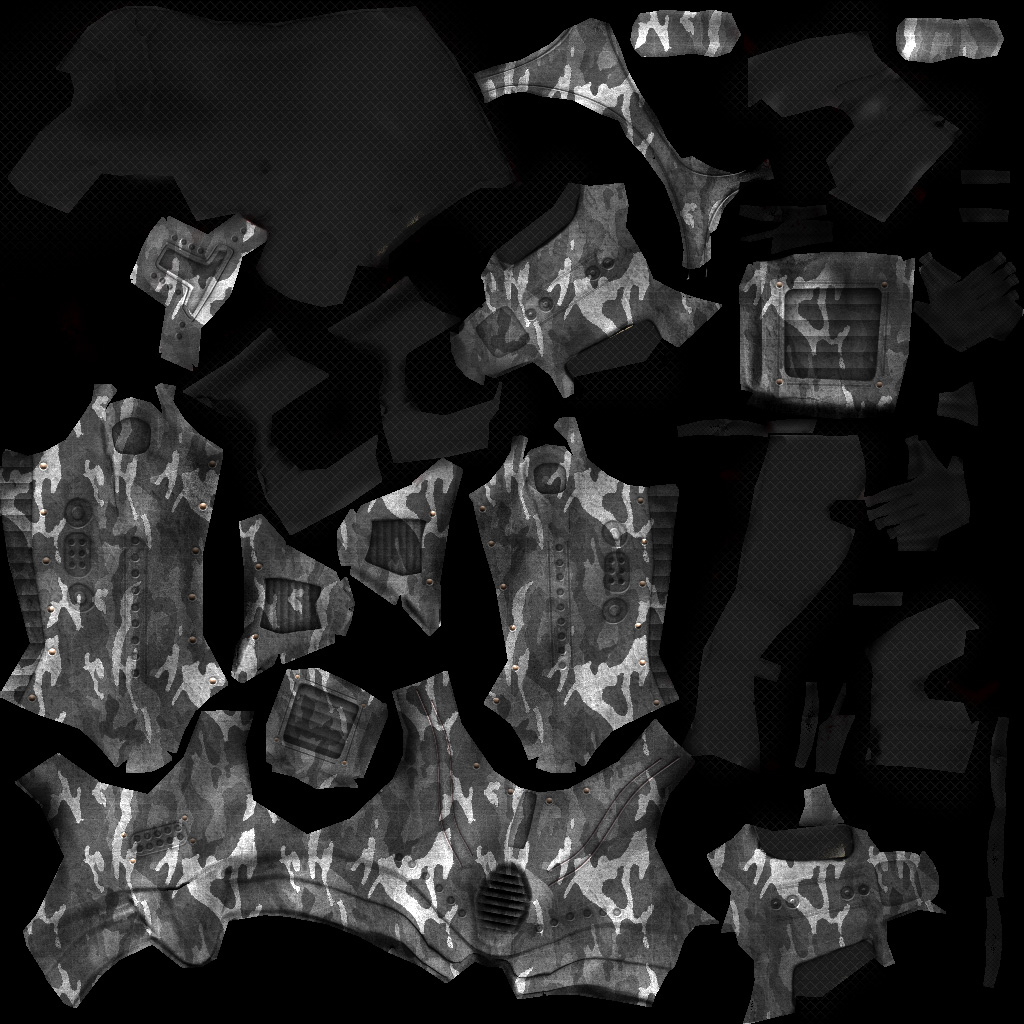
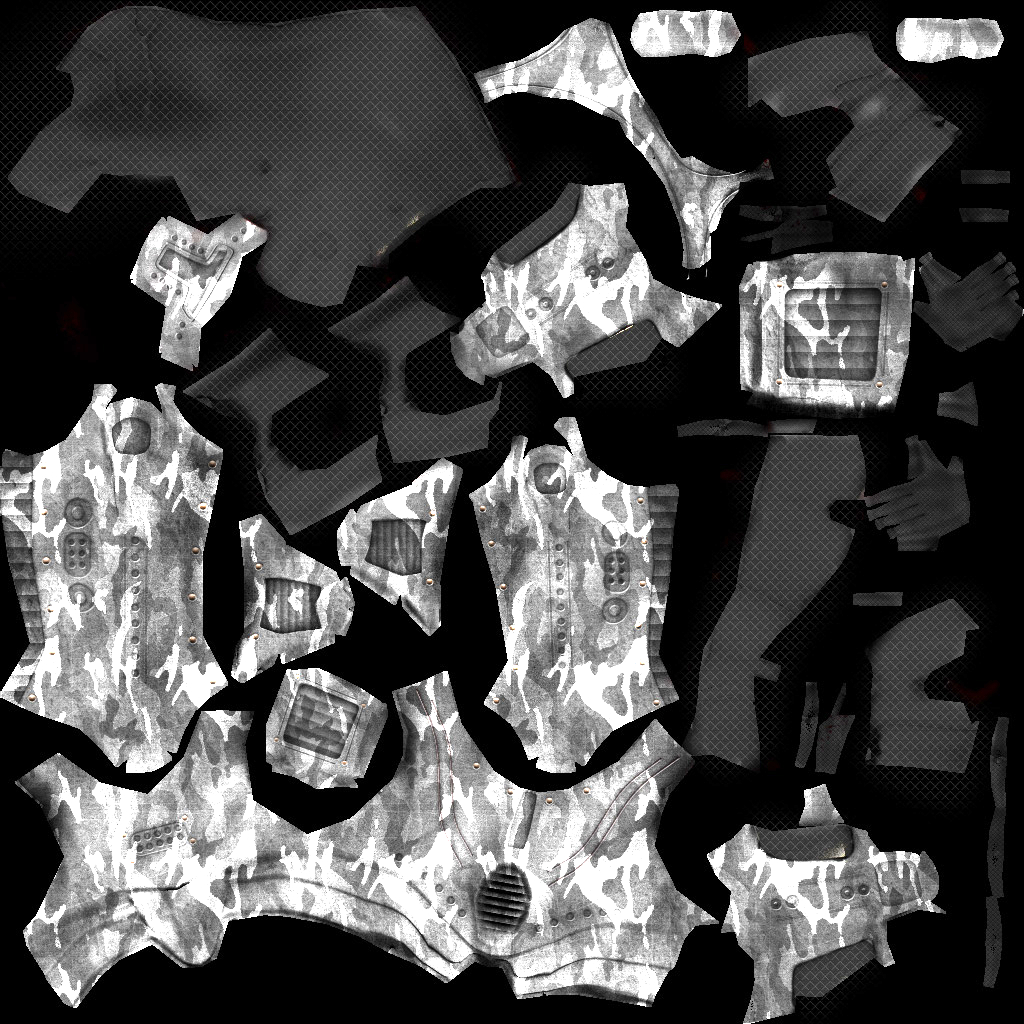
brighten player model skin, bomber ball visual improvements
Former-commit-id: 98c357795fef26a8a18e2057984c3a4b230a422e
Former-commit-id: ebed8acdb8037d3d5a0f8300be6862bff5660029

diff --git a/src/game/bomber.cpp b/src/game/bomber.cpp
@@ -47,7 +47,7 @@ namespace bomber
             vecfromyawpitch(d->yaw, d->pitch, 1, 0, inertia);
             bool guided = false;
             if(bomberpowertime && lastmillis-d->actiontime[AC_AFFINITY] >= bomberpowertime) guided = true;
-            inertia.normalize().mul(bomberspeed).add(d->vel).add(d->falling);
+            inertia.normalize().mul(bomberspeed).add(vec(d->vel).add(d->falling).mul(bomberinertia));
             client::addmsg(N_DROPAFFIN, "ri8", d->clientnum, guided ? findtarget(d) : -1, int(d->o.x*DMF), int(d->o.y*DMF), int(d->o.z*DMF), int(inertia.x*DMF), int(inertia.y*DMF), int(inertia.z*DMF));
             d->action[AC_AFFINITY] = false;
             d->actiontime[AC_AFFINITY] = 0;
@@ -70,23 +70,21 @@ namespace bomber
             bomberstate::flag &f = st.flags[i];
             if(!entities::ents.inrange(f.ent) || hasflags.find(i) >= 0 || !f.enabled) continue;
             vec dir = vec(f.pos()).sub(camera1->o);
-            int colour = isbomberaffinity(f) ? 0x888888 : teamtype[f.team].colour;
+            int colour = isbomberaffinity(f) ? 0xFFFFFF : teamtype[f.team].colour;
             float r = (colour>>16)/255.f, g = ((colour>>8)&0xFF)/255.f, b = (colour&0xFF)/255.f, fade = blend*hud::radaraffinityblend, size = hud::radaraffinitysize;
             if(isbomberaffinity(f))
             {
-                int millis = lastmillis-f.interptime;
-                if(millis < 1000) size *= 1.f+(1-clamp(float(millis)/1000.f, 0.f, 1.f));
-                if(f.owner) size *= 0.75f;
-                else if(!f.droptime) fade *= 0.75f;
+                size *= 1.25f;
+                if(!f.owner && !f.droptime)
+                {
+                    int millis = lastmillis-f.interptime;
+                    if(millis < 1000) size *= 1.f+(1-clamp(float(millis)/1000.f, 0.f, 1.f));
+                }
             }
             else
             {
                 float dist = dir.magnitude(), diff = dist <= hud::radarrange() ? clamp(1.f-(dist/hud::radarrange()), 0.f, 1.f) : 0.f;
-                if(isbombertarg(f, game::focus->team) && !hasflags.empty())
-                {
-                    fade += (1.f-fade)*diff;
-                    size *= 2;
-                }
+                if(isbombertarg(f, game::focus->team) && !hasflags.empty()) fade += (1.f-fade)*diff;
             }
             dir.rotate_around_z(-camera1->yaw*RAD).normalize();
             hud::drawblip(isbomberaffinity(f) ? hud::bombtex : (isbombertarg(f, game::focus->team) ? hud::arrowtex : hud::flagtex), 3, w, h, size, fade, dir, r, g, b);
@@ -130,7 +128,7 @@ namespace bomber
             if(y-sy-s < m) break;
             bomberstate::flag &f = st.flags[i];
             int millis = lastmillis-f.interptime, pos[2] = { x, y-sy };
-            float skew = hud::inventoryskew, fade = blend*hud::inventoryblend, r = 0.5f, g = 0.5f, b = 0.5f, rescale = 1.f;
+            float skew = hud::inventoryskew, fade = blend*hud::inventoryblend, r = 1.f, g = 1.f, b = 1.f, rescale = 1.f;
             if(f.owner || f.droptime)
             {
                 if(f.owner == game::focus)
@@ -245,19 +243,13 @@ namespace bomber
                 if(isbomberaffinity(f))
                 {
                     if(!f.owner) above.z += enttype[AFFINITY].radius/(f.droptime ? 16 : 4);
-                    int colour = f.lastowner && f.lastowner->team ? teamtype[f.lastowner->team].colour : 0xFFFFFF;
                     entitylight *light = &entities::ents[f.ent]->light;
-                    if(light->millis != lastmillis)
-                    {
-                        light->material.x = (colour>>16)/255.f;
-                        light->material.y = ((colour>>8)&0xFF)/255.f;
-                        light->material.z = (colour&0xFF)/255.f;
-                    }
+                    if(light->millis != lastmillis) light->material = vec(1, 1, 1);
                     float yaw = !f.owner && f.proj ? f.proj->yaw : (lastmillis/10)%360, pitch = !f.owner && f.proj ? f.proj->pitch : 0, roll = !f.owner && f.proj ? f.proj->roll : 0;
                     rendermodel(light, "ball", ANIM_MAPMODEL|ANIM_LOOP, above, yaw, pitch, roll, MDL_SHADOW|MDL_CULL_VFC|MDL_CULL_OCCLUDED, NULL, NULL, 0, 0, trans);
                     int interval = lastmillis%1000;
                     float fluc = interval >= 500 ? (1500-interval)/1000.f : (500+interval)/1000.f;
-                    part_create(PART_HINT_SOFT, 1, above, colour, enttype[AFFINITY].radius/4+(2*fluc), fluc*trans);
+                    part_create(PART_HINT_SOFT, 1, above, 0xFFFFFF, enttype[AFFINITY].radius/4+(2*fluc), fluc*trans);
                 }
                 else
                 {
@@ -287,7 +279,7 @@ namespace bomber
                 int millis = lastmillis-f.interptime;
                 if(millis <= 1000) trans = float(millis)/1000.f;
             }
-            int colour = isbomberaffinity(f) ? (f.lastowner && f.lastowner->team ? teamtype[f.lastowner->team].colour : 0xAAAAAA) : teamtype[f.team].colour;
+            int colour = isbomberaffinity(f) ? 0xFFFFFF : teamtype[f.team].colour;
             adddynlight(f.pos(true), enttype[AFFINITY].radius*2*trans, vec((colour>>16), ((colour>>8)&0xFF), (colour&0xFF)).div(255.f), 0, 0, DL_KEEP);
         }
     }
@@ -301,7 +293,7 @@ namespace bomber
             if(st.flags.inrange(index)) \
             { \
                 st.flags[index].ent = a; \
-                int colour = st.flags[index].team == TEAM_NEUTRAL ? 0x888888 : teamtype[st.flags[index].team].colour; \
+                int colour = st.flags[index].team == TEAM_NEUTRAL ? 0xFFFFFF : teamtype[st.flags[index].team].colour; \
                 entities::ents[a]->light.material = st.flags[index].light.material = vec(colour>>16, (colour>>8)&0xFF, colour&0xFF).div(255.f); \
             } \
             else continue; \

diff --git a/src/game/weapons.h b/src/game/weapons.h
@@ -183,7 +183,7 @@ WEAPON(sword,
 );
 WEAPON(shotgun,
     2,      8,      1,      2,      375,    750,    750,    20,     14,     1500,   500,    0,      0,      750,    250,
-    0,      0,      0,      0,      200,    200,    0,      0,      10,     10,     15,     15,
+    0,      0,      0,      0,      200,    200,    0,      0,      10,     10,     20,     15,
     2,      1,      10,     10,     -1,             WALT(SHOTGUN),  5,      5,      250,    2500,   0,      0,
     BOUNCE_GEOM|IMPACT_PLAYER|IMPACT_SHOTS|COLLIDE_TRACE|COLLIDE_OWNER,
     IMPACT_GEOM|IMPACT_PLAYER|IMPACT_SHOTS|COLLIDE_TRACE|COLLIDE_OWNER|COLLIDE_CONT,
@@ -234,7 +234,7 @@ WEAPON(plasma,
     1,      1,      1,      1,      1,      1,      1,      1,      0,      0
 );
 WEAPON(rifle,
-    5,      5,      1,      1,      750,    750,    1500,   40,     100,    5000,   25000,  0,      0,      5000,   5000,
+    5,      5,      1,      1,      750,    750,    1500,   50,     100,    5000,   25000,  0,      0,      5000,   5000,
     0,      0,      0,      0,      200,    200,    28,     0,      1,      1,      1,      0,
     0,      0,      40,     40,     -1,             -1,             5,      5,      500,    500,    0,      0,
     IMPACT_GEOM|IMPACT_PLAYER|IMPACT_SHOTS|COLLIDE_OWNER|COLLIDE_TRACE,
@@ -242,8 +242,8 @@ WEAPON(rifle,
     2,      2,      0,      0,      0,      0,      0,      0,      0,      0,      1,      1,      1,      0,      0,
     2,      0,      0,      0,
     0,      0,      0,      0,      0.5f,   0.5f,   0,      0,      1,      0,      2,      2,      0,      0,      1,      1,
-    5,      0,      100,    200,    0.1f,   0.25f,  600,    0,      2,      2,      256,    512,    1,      1.5f,
-    2,      12,     10,     10,     1,      1,      1,      1,      0.6f,   0.6f,   0.3f,   0.3f,
+    5,      0,      200,    200,    0.1f,   0.25f,  600,    0,      2,      2,      256,    512,    1,      1.5f,
+    2,      12,     10,     10,     1,      1,      1,      1,      0.8f,   0.6f,   0.4f,   0.6f,
     1,      1,      1,      1,      0.25f,  0.25f,  1,      1,      0,      0
 );
 WEAPON(grenade,
@@ -254,7 +254,7 @@ WEAPON(grenade,
     IMPACT_GEOM|BOUNCE_PLAYER|IMPACT_SHOTS|COLLIDE_OWNER|COLLIDE_STICK|COLLIDE_SHOTS,
     2,      2,      2,      2,      0,      0,      0,      0,      1,      1,      0,      0,      0,      0,      0,
     3,      0,      0,      0,
-    0,      0,      0,      0,      0.5f,   0.5f,   0,      0,      1,      1,      2,      2,      64,     64,     1,      1,
+    0,      0,      0,      0,      0.5f,   0.5f,   0,      0,      1,      1,      2,      2,      65,     65,     1,      1,
     5,      5,      500,    500,    0.1f,   0.1f,   400,    400,    2,      2,      0,      0,      2,      2,
     2,      0,      10,     10,     1,      1,      1,      1,      0.6f,   0.6f,   0.3f,   0.3f,
     1,      1,      1,      1,      1,      1,      0,      0,      0,      0

diff --git a/src/game/projs.cpp b/src/game/projs.cpp
@@ -565,7 +565,7 @@ namespace projs
                 proj.reflectivity = 0.f;
                 proj.relativity = 1.f;
                 proj.waterfric = 1.75f;
-                proj.weight = 100.f;
+                proj.weight = 65.f;
                 proj.projcollide = BOUNCE_GEOM;
                 proj.escaped = true;
                 proj.fadetime = 500;
@@ -950,9 +950,9 @@ namespace projs
             case PRJ_AFFINITY:
             {
                 bool moving = proj.movement > 0.f;
-                if(moving && lastmillis-proj.lasteffect >= 50)
+                if(moving && lastmillis-proj.lasteffect >= 25)
                 {
-                    part_create(PART_SMOKE, 150, proj.o, 0x888888, max(proj.xradius, proj.yradius)*1.5f, clamp(1.f-proj.lifespan, 0.1f, 1.f)*0.5f, -1);
+                    part_create(PART_SMOKE, 150, proj.o, 0xFFFFFF, max(proj.xradius, proj.yradius)*1.5f, 0.75f, -10);
                     proj.lasteffect = lastmillis - (lastmillis%100);
                 }
             }

diff --git a/src/game/vars.h b/src/game/vars.h
@@ -107,8 +107,9 @@ GVAR(0, bomberresetdelay, 0, 15000, INT_MAX-1);
 GVAR(0, bomberholdtime, 0, 15000, INT_MAX-1);
 GVAR(0, bomberpowertime, 0, 1000, INT_MAX-1);
 GFVAR(0, bomberspeed, 0, 250, 10000);
-GFVAR(0, bomberminvel, 0, 5, 10000);
-GFVAR(0, bomberdelta, 0, 5, 10000);
+GFVAR(0, bomberminvel, 0, 10, 10000);
+GFVAR(0, bomberdelta, 0, 20, 10000);
+GFVAR(0, bomberinertia, 0, 0.25f, 10000);
 
 GVAR(0, skillmin, 1, 65, 101);
 GVAR(0, skillmax, 1, 85, 101);

diff --git a/src/game/game.h b/src/game/game.h
@@ -466,8 +466,8 @@ struct teamtypes
 #ifdef GAMESERVER
 teamtypes teamtype[] = {
     {
-        TEAM_NEUTRAL,   0x44FF44,           "neutral",
-        "team",             "\fg",      "green"
+        TEAM_NEUTRAL,   0xAAAAAA,           "neutral",
+        "team",             "\fa",      "grey"
     },
     {
         TEAM_ALPHA,     0x4444FF,           "alpha",
